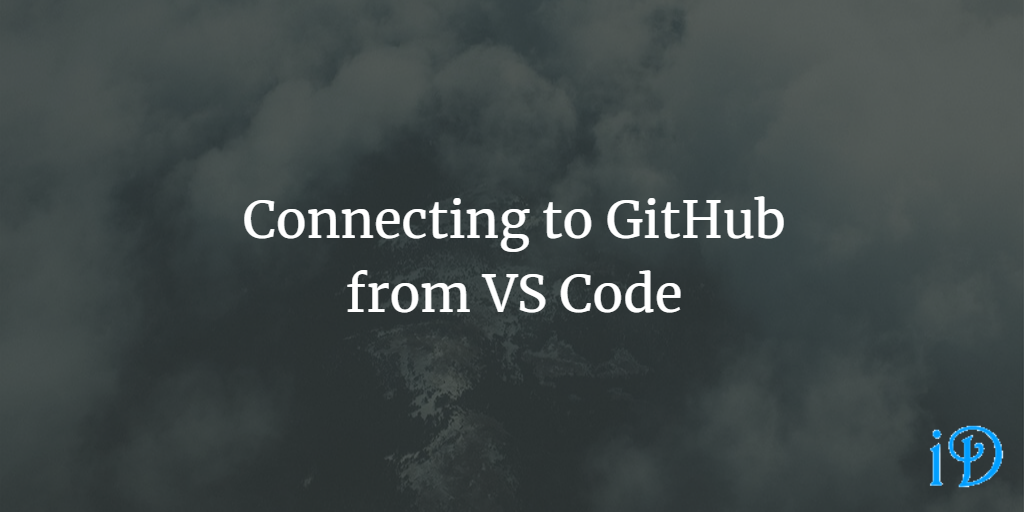
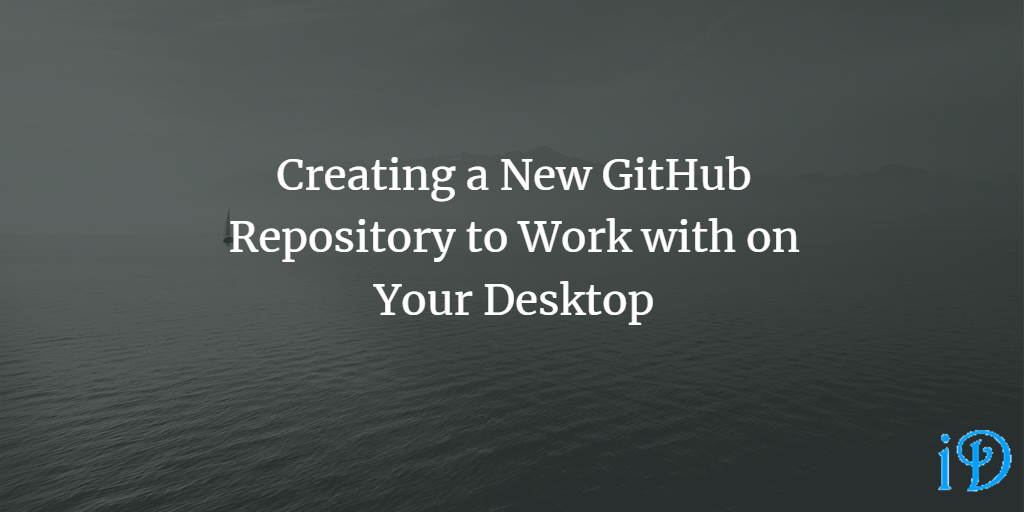
connecting to github post

diff --git a/src/pages/blog/2020-06-24-connecting-github.md b/src/pages/blog/2020-06-24-connecting-github.md
@@ -1,0 +1,32 @@
+---
+templateKey: blog-post
+title: Creating a New GitHub Repository to Work with on Your Desktop
+date: 2020-06-24T15:04:10.000Z
+featuredpost: false
+featuredimage: /img/connecting-github.png
+tags:
+  - coding
+  - GitHub
+  - command line
+  - software development
+---
+
+This seemingly simple task can get somewhat complicated if you don't know what you're doing. I've certainly had trouble with this. Here is the easiest way to do this:
+
+1\. Log on to GitHub and/or create GitHub account. If you're creating a new account [here](https://ilyana.dev/blog/2020-06-06-setting-up-a-github-account/) are some tips.
+
+2\. Go to the page for your account and click **Repositories** at the top, then click the green **New** button.
+
+![New GitHub Repo](/img/github-repositories-new.png "New GitHub Repo")
+
+3\. Go into your new repository, click the green **Clone** button, and copy the URL to your clipboard.
+
+![Clone GitHub Repo](/img/github-clone-repository.png "Clone GitHub Repo")
+
+4\. On your computer, create a new folder with the same name as your repository.
+
+5\. Open your command line, navigate to the folder you just created, and enter the command `git clone` + the URL you copied to your clipboard.
+
+6\. Congratulations! Now, your folder on your desktop should be linked to that GitHub repository, and whenever you commit and push changes in an application like Visual Studio or VS Code, they should go right to that repository.
+
+Thanks for reading! I hope you find this and other articles here at ilyanaDev helpful! Be sure to follow me on Twitter [@ilyanaDev](https://twitter.com/ilyanaDev).

diff --git a/src/pages/blog/2020-06-24-social-cards.md b/src/pages/blog/2020-06-24-social-cards.md
@@ -1,7 +1,7 @@
 ---
 templateKey: blog-post
 title: Social Cards
-date: 2020-06-24T18:07:10.000Z
+date: 2020-06-24T14:07:10.000Z
 featuredpost: true
 featuredimage: /img/social-cards.png
 tags:
